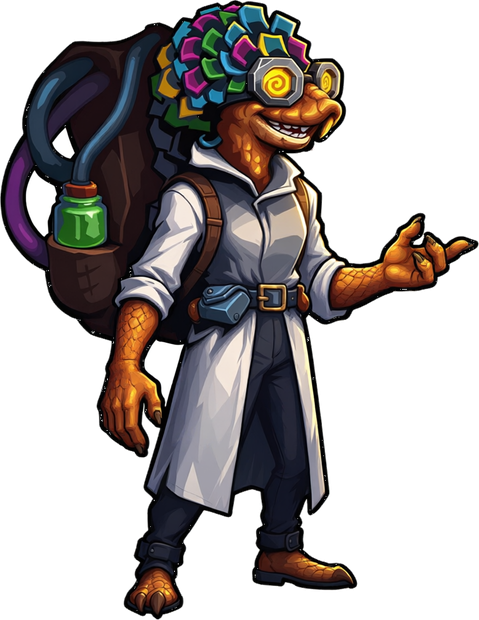
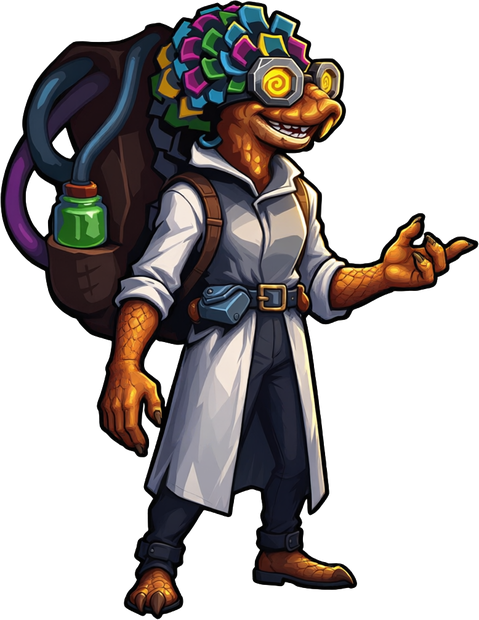
art: RMBG cutouts for rest site, merchant and mod image

Changed region(s): [[0.2923, 0.5516, 0.3215, 0.6129], [0.2923, 0.6435, 0.3215, 0.6742]]

diff --git a/tools/rmbg_cut.py b/tools/rmbg_cut.py
@@ -1,0 +1,71 @@
+"""Cut room art with RMBG-1.4 (local, free)."""
+from __future__ import annotations
+
+import sys
+from pathlib import Path
+
+import numpy as np
+import torch
+import torch.nn.functional as F
+from PIL import Image
+
+sys.path.insert(0, r"D:\DSH_work\tools")
+from rmbg.briarmbg import BriaRMBG  # noqa: E402
+
+ROOT = Path(r"D:\DSH_work\StS2_MadScientist")
+SRC = ROOT / "art" / "qwen_rooms2"
+IMG = ROOT / "MadScientist" / "images"
+MODEL = r"D:\DSH_work\tools\rmbg"
+
+
+def mask_for(img: Image.Image, net) -> Image.Image:
+    w, h = img.size
+    arr = np.array(img.convert("RGB"))
+    t = torch.tensor(arr, dtype=torch.float32).permute(2, 0, 1).unsqueeze(0)
+    t = F.interpolate(t, size=(1024, 1024), mode="bilinear", align_corners=False)
+    t = (t / 255.0 - 0.5).to("cuda")
+    with torch.no_grad():
+        out = net(t)
+    while isinstance(out, (list, tuple)):
+        out = out[0]
+    if out.dim() == 3:
+        out = out.unsqueeze(0)
+    out = F.interpolate(out, size=(h, w), mode="bilinear", align_corners=False)[0, 0]
+    out = (out - out.min()) / (out.max() - out.min())
+    alpha = (out * 255).to(torch.uint8).cpu().numpy()
+    return Image.fromarray(alpha, mode="L")
+
+
+def trim(img: Image.Image) -> Image.Image:
+    bbox = img.getbbox()
+    return img.crop(bbox) if bbox else img
+
+
+def main() -> None:
+    net = BriaRMBG.from_pretrained(MODEL).to("cuda").eval()
+    for name, target_h in (("rest_site", 310), ("merchant", 620)):
+        src = SRC / f"{name}.png"
+        if not src.exists():
+            continue
+        img = Image.open(src).convert("RGB")
+        alpha = mask_for(img, net)
+        out = img.convert("RGBA")
+        out.putalpha(alpha)
+        out = trim(out)
+        out = out.resize((round(out.width * target_h / out.height), target_h), Image.LANCZOS)
+        out.save(IMG / "rooms" / f"{name}.png")
+        print(name, out.size)
+
+    # Mod thumbnail: keep the square canvas, only clean the background.
+    mod = IMG / "mod_image.png"
+    if mod.exists():
+        img = Image.open(mod).convert("RGB")
+        alpha = mask_for(img, net)
+        out = img.convert("RGBA")
+        out.putalpha(alpha)
+        out.save(mod)
+        print("mod_image", out.size)
+
+
+if __name__ == "__main__":
+    main()
